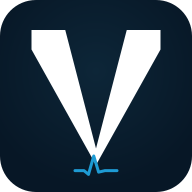
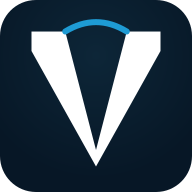
design: The Aeon Arc — VITAEON brand identity system
Isotipo: V geométrica bold (VITA) + arco teal (AEON) cruzando la apertura.
Triple lectura: lettermark V / ciclo eterno / escudo abierto.
Archivos: icon-512, icon-192, favicon-32, og-logo 1200×630, vitaeon-isotope.svg.
layout.tsx: favicon 32px registrado, apple-icon, og:image para link previews.
Paleta: #071726 navy · #1e9bd4 azure · #ffffff arctic white.

diff --git a/app/layout.tsx b/app/layout.tsx
@@ -18,6 +18,13 @@ export const metadata: Metadata = {
     follow: true
   },
   manifest: "/manifest.json",
+  icons: {
+    icon: [
+      { url: "/favicon-32.png", sizes: "32x32", type: "image/png" },
+      { url: "/icon-192.png",   sizes: "192x192", type: "image/png" }
+    ],
+    apple: [{ url: "/icon-192.png", sizes: "192x192" }]
+  },
   appleWebApp: {
     capable: true,
     statusBarStyle: "black-translucent",
@@ -28,7 +35,8 @@ export const metadata: Metadata = {
     description: "Especialistas verificados, agenda médica y experiencia digital de alto nivel.",
     type: "website",
     locale: "es_MX",
-    siteName: "VITAEON"
+    siteName: "VITAEON",
+    images: [{ url: "/og-logo.png", width: 1200, height: 630, alt: "VITAEON" }]
   }
 };
 
